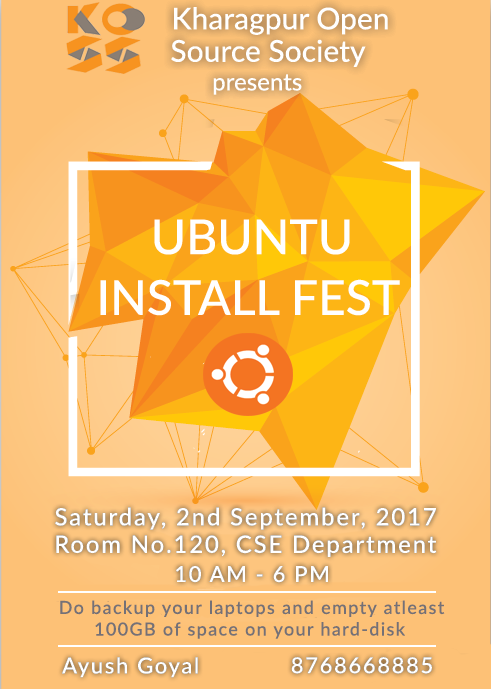
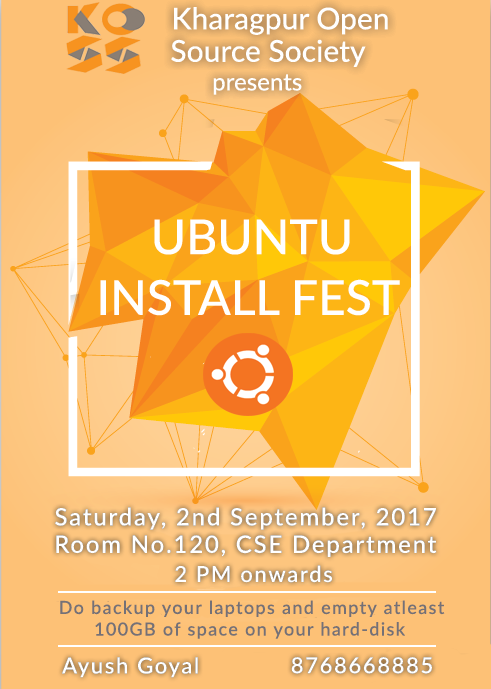
Update time poster

Changed region(s): [[0.336, 0.7925, 0.7026, 0.8534]]

diff --git a/index.html b/index.html
@@ -150,7 +150,7 @@ Every year KOSS plans to hold events for familiarizing students with UNIX tools,
                       <img class="ui image" src="assets/images/ubuntu.png">
                       <div class="caption">
                           <div class="caption-text">
-                              <div class="ui green label">2 Sep, 10 AM-6PM, CSE-120</div>
+                              <div class="ui green label">2 Sep, 14:00 hrs, CSE-120</div>
                               <div class="captionHead">Ubuntu install fest</div>
                               <p><i>Learn how to get Linux installed on your PC. Use it as standalone OS or get it dual booted.</i></p>
                               <!-- <a href="https://www.facebook.com/events/465324710508549/"" target="_blank"><button class="ui primary button">More</button></a> -->
